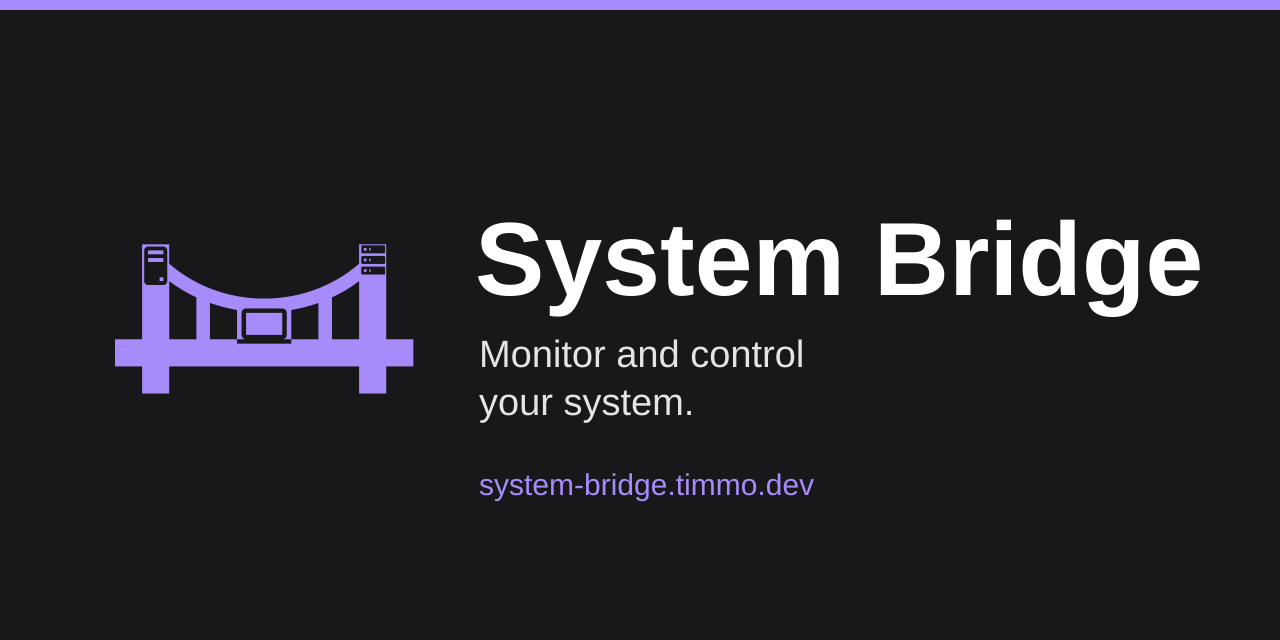
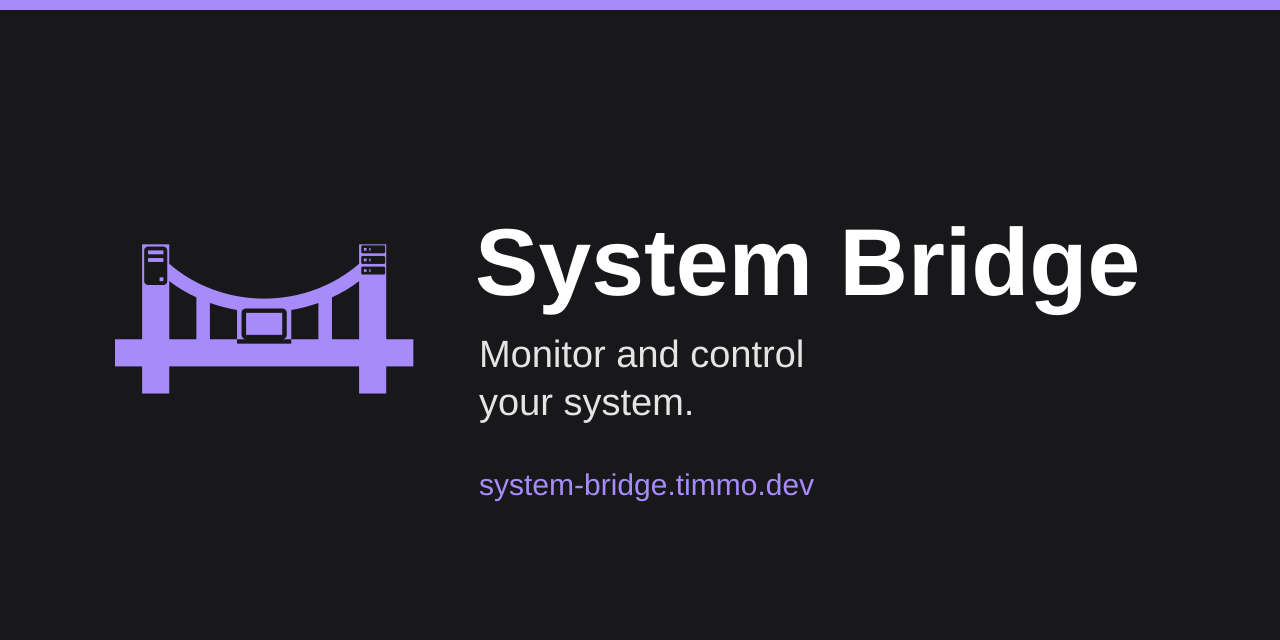
Update docs-kit to 0.1.2 and add the share card back

Changed region(s): [[0.375, 0.3438, 0.9375, 0.5]]

diff --git a/docs/scripts/brand-images.ts b/docs/scripts/brand-images.ts
@@ -9,6 +9,7 @@ const written = await writeBrandImages({
   background: "#18181b",
   accent: "#a78bfa",
   outputs: {
+    og: "public/social.png",
     socialPreview: "../.github/social-preview.png",
     logo: "public/logo.png",
     appleTouchIcon: "public/apple-touch-icon.png",
